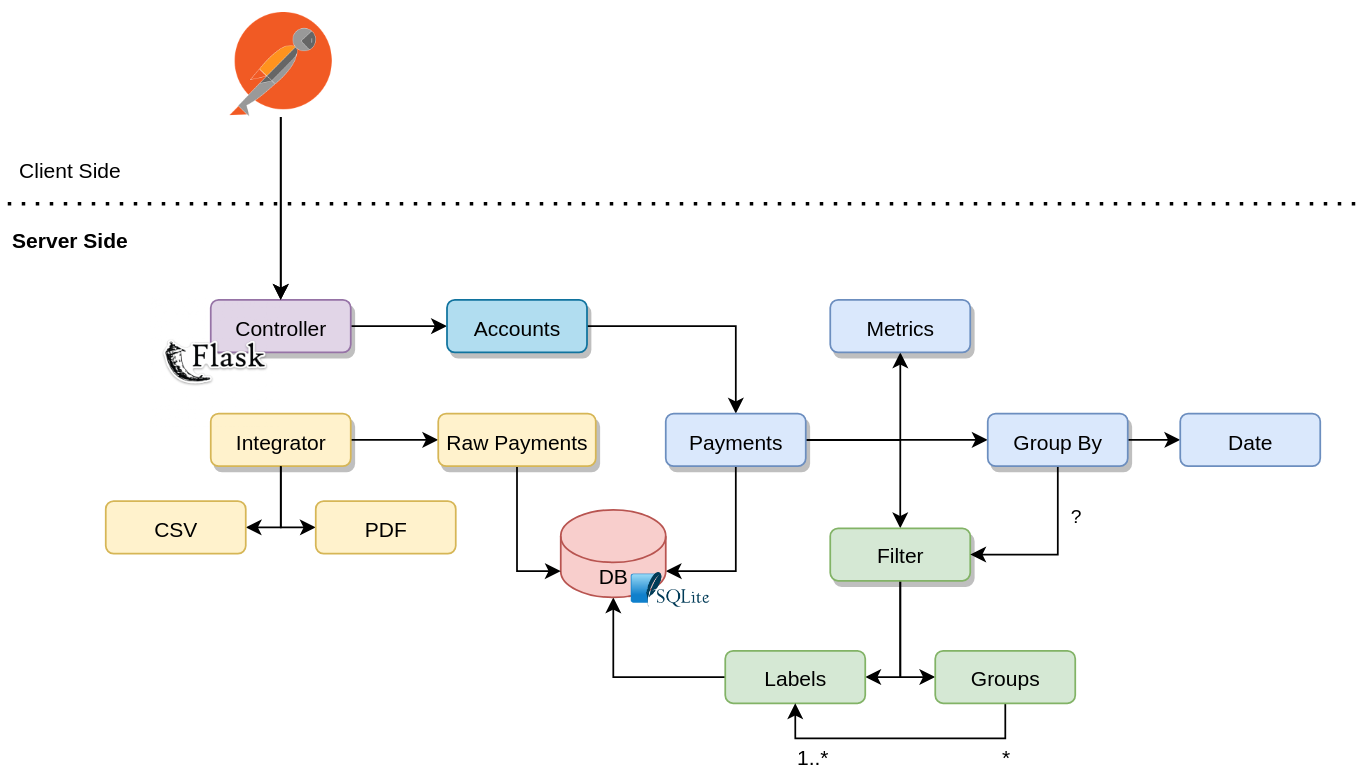
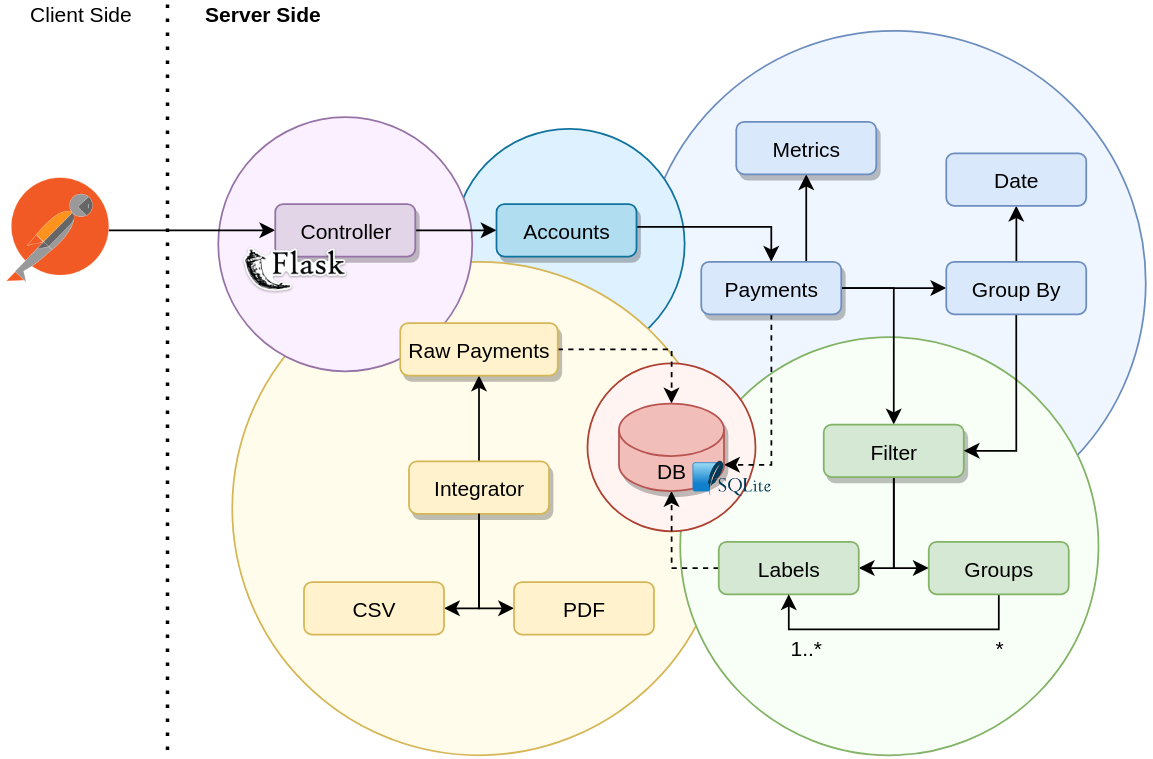
:art: Improve architectural diagram

diff --git a/README.md b/README.md
@@ -31,7 +31,7 @@ Project pitched and started the _11th december 2020_
     
     _For more information, go to [Python Virtual Environment Official Documentation](https://docs.python.org/3/library/venv.html)._
 
-1. Install the project dependencies:
+1. :package: Install the project dependencies:
 
     ``` bash
     apt install python3-pip
@@ -56,6 +56,10 @@ Project pitched and started the _11th december 2020_
 
 ## :art: Architecture
 
+### Version 1
+![Accounting Architecture](img/accounting_diagram_flat.png)
+
+### Version 2
 ![Accounting Architecture](img/accounting_diagram.png)
 
 
